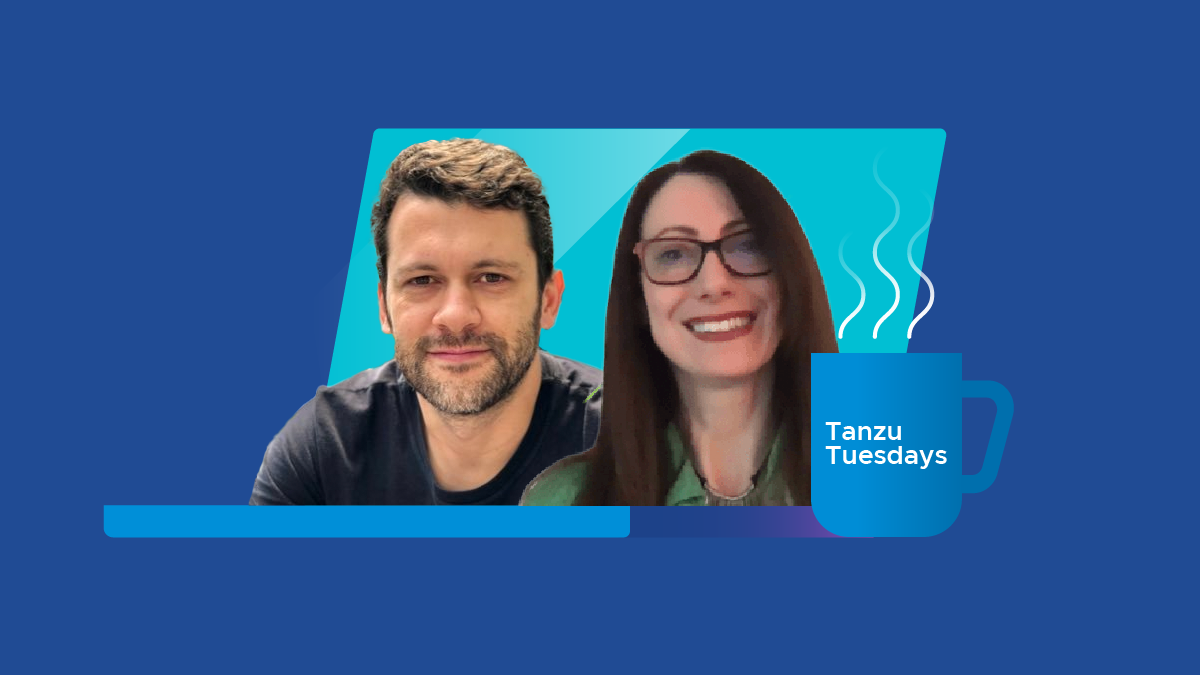
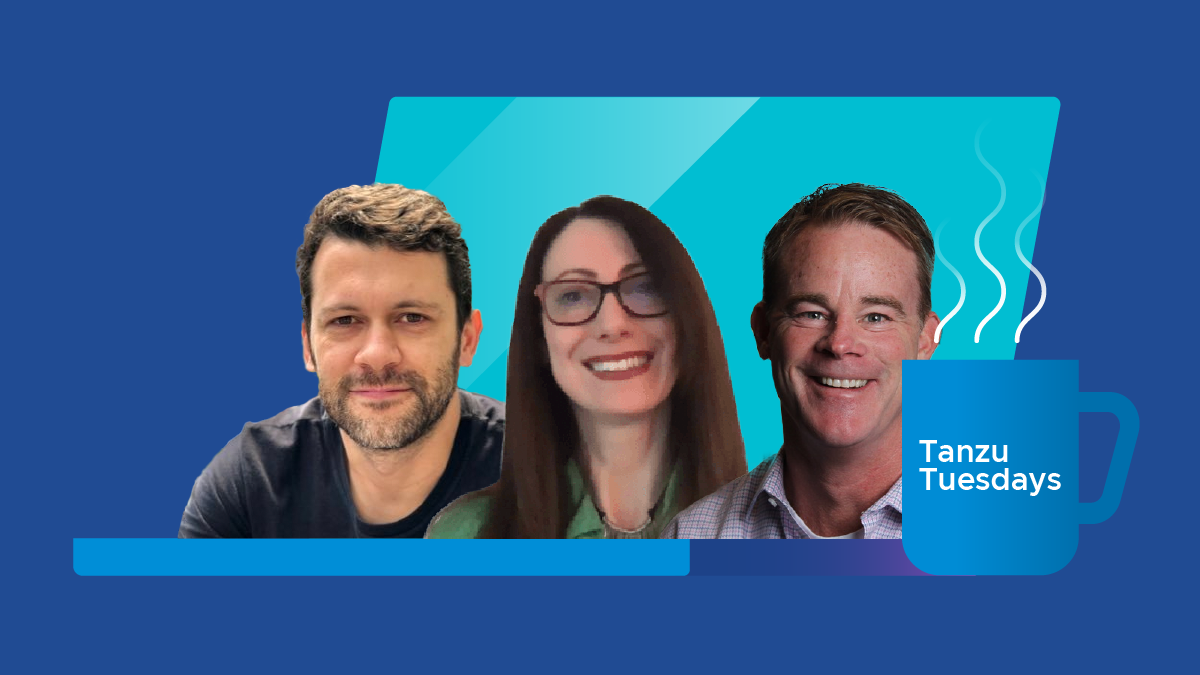
Update TT 34 and add Michael Wright

diff --git a/content/tv/tanzu-tuesdays/0034.md b/content/tv/tanzu-tuesdays/0034.md
@@ -2,8 +2,8 @@
 type: "tv-episode"
 Description: "Challenges and opportunities for K8s at the Edge"
 aliases: ["/tv/tanzu-tuesdays/34"]
-hosts: ["Bob Brindley","Tiffany Jernigan","Paul Czarkowski"]
-guests: ["Maria Gabriella Brodi","Glênio Damasceno Borges"]
+hosts: ["Tiffany Jernigan","Paul Czarkowski"]
+guests: ["Maria Gabriella Brodi","Glênio Damasceno Borges","Michael Wright"]
 Date: "2020-12-15T13:00:00-08:00"
 PublishDate: "2020-09-24T00:00:00-07:00"
 episode: "34"
@@ -14,7 +14,7 @@ episode_image: "/images/tv/episodes/tanzu-tuesdays/0034.png"
 episode_banner: "/images/tv/episodes/tanzu-tuesdays/0034.png"
 explicit: "no"
 images: ["/images/tv/episodes/tanzu-tuesdays/0034.png"]
-title: "Challenges and opportunities for K8s at the Edge with Maria Gabriella (Gabry) Brodi and Glênio Damasceno Borges"
+title: "Challenges and opportunities for K8s at the Edge with Maria Gabriella (Gabry) Brodi, Glênio Damasceno Borges, and Michael Wright"
 #youtube: "TODO"
 truncate: ""
 twitch: "vmwaretanzu"

diff --git a/content/team/michael-wright/_index.md b/content/team/michael-wright/_index.md
@@ -1,0 +1,22 @@
+---
+name: "Michael Wright"
+description: "Platform Architecture Manager"
+photo: "/images/team/michael-wright.jpg"
+roles: ["guest"]
+skills: []
+weight: 1
+
+# Social Media
+twitter: ""
+website: ""
+facebook: ""
+linkedin: ""
+github: ""
+pinterest: ""
+instagram: ""
+youtube: ""
+---
+
+Mike has over 25 years in the application development space and currently leads the field working group at VMware as a liaison between customer and product development in the area of Edge computing for modern applications. 
+
+<!--more-->
